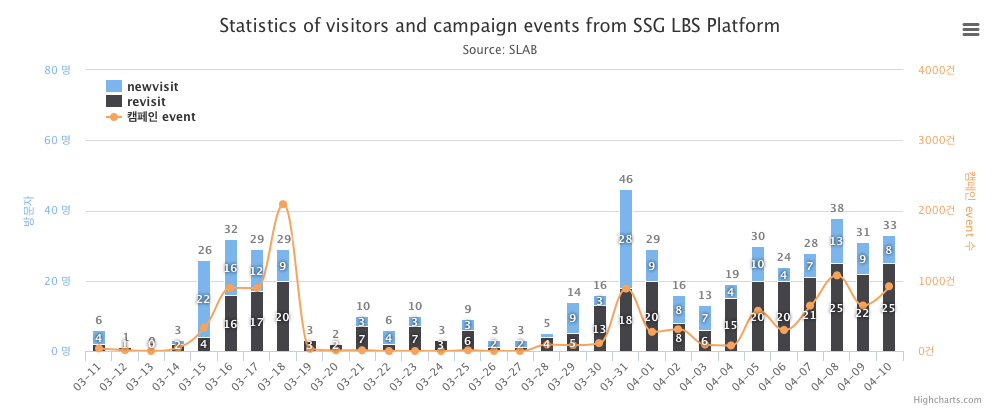
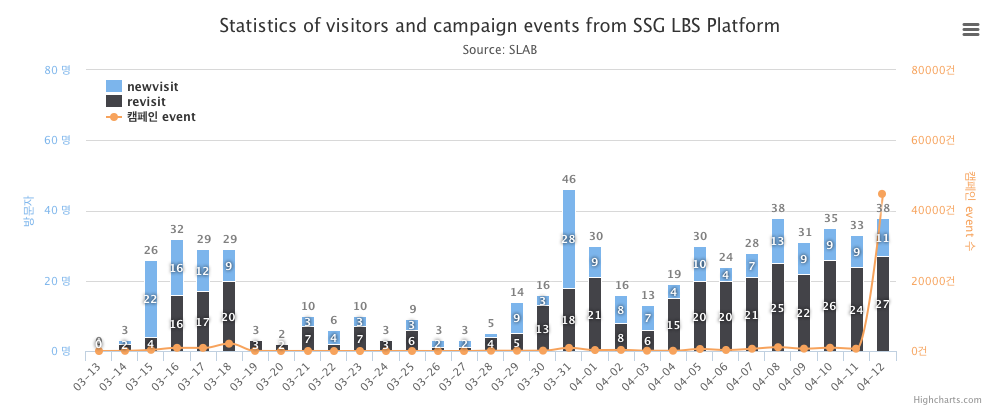
"SsgBot commits png and html"

diff --git a/lbsStat.html b/lbsStat.html
@@ -24,7 +24,7 @@ $(function () {
             crosshair: true
         }],
         yAxis: [{ // Primary yAxis
-        		max:2500,
+        		//max:2500,
             labels: {
                 format: '{value}건',
                 style: {
@@ -40,7 +40,7 @@ $(function () {
             opposite: true
 
         }, { // Secondary yAxis
-        		max:50,
+        		//max:50,
             gridLineWidth: 0,
             title: {
                 text: '방문자',
@@ -101,7 +101,7 @@ $(function () {
             name: 'revisit',
             type: 'column',
             yAxis: 1,
-            data: [0, 2, 4, 16, 17, 20, 3, 2, 7, 2, 7, 3, 6, 1, 1, 4, 5, 13, 18, 21, 8, 6, 15, 20, 20, 21, 25, 22, 26, 24, 26], /*[0, 0, 2, 1, 2, 1, 0, 2, 4, 16, 17, 20, 3, 2, 7, 2, 7, 3, 6, 1, 1, 4, 5, 13, 18, 20, 8, 6, 15, 20, 20, 21]*/
+            data: [0, 2, 4, 16, 17, 20, 3, 2, 7, 2, 7, 3, 6, 1, 1, 4, 5, 13, 18, 21, 8, 6, 15, 20, 20, 21, 25, 22, 26, 24, 27], /*[0, 0, 2, 1, 2, 1, 0, 2, 4, 16, 17, 20, 3, 2, 7, 2, 7, 3, 6, 1, 1, 4, 5, 13, 18, 20, 8, 6, 15, 20, 20, 21]*/
             marker: {
                 enabled: false
             },
@@ -114,7 +114,7 @@ $(function () {
 
             name: '캠페인 event',
             type: 'spline',
-            data: [0, 50, 334, 899, 896, 2090, 32, 9, 11, 0, 0, 0, 11, 0, 0, 91, 84, 112, 889, 274, 309, 92, 79, 573, 299, 645, 1077, 673, 932, 653, 44720],/*[0, 20, 18, 9, 36, 12, 0, 50, 334, 899, 896, 2090, 32, 9, 11, 0, 0, 0, 11, 0, 0, 91, 84, 112, 889, 273, 309, 90, 79, 573, 299, 645]*/
+            data: [0, 50, 334, 899, 896, 2090, 32, 9, 11, 0, 0, 0, 11, 0, 0, 91, 84, 112, 889, 274, 309, 92, 79, 573, 299, 645, 1077, 673, 932, 656, 44737],/*[0, 20, 18, 9, 36, 12, 0, 50, 334, 899, 896, 2090, 32, 9, 11, 0, 0, 0, 11, 0, 0, 91, 84, 112, 889, 273, 309, 90, 79, 573, 299, 645]*/
             tooltip: {
                 valueSuffix: ' 건'
             }

diff --git a/lbsStat.py b/lbsStat.py
@@ -26,7 +26,7 @@ headers={'request_type':'1', 'access_token':'79E5F0BA4352C7D23BAF36618DF605E881E
           'x-ssg-deviceid':'88888888-8888-8888-8888-888888888888', 'x-ssg-userid':'C88888888/restful_check'}
 # global audiences=set([])
 
-BASE_DIR='errbot-plugins/LbsStat/'
+BASE_DIR='/gdev/sm/ssgbot/errbot-plugins/LbsStat/'
 ROSTER= BASE_DIR+'roster.pkl'
 IMG_PATH=BASE_DIR+'lbsstat.png'
 CHART_URL='http://gnooshin.github.io/lbsStat/lbsStat.html'
@@ -129,18 +129,11 @@ class LbsStat(BotPlugin):
                     fout.write(line)
                 fout.close()
         sh.cd(BASE_DIR)
-        print "#######"+str(sh.pwd())
-        # repo_origin = 'https://github.com/gnooshin/lbsStat.git'
-        # sh.git.add('.')
-        # sh.git.commit('-m', '"SsgBot commits html"')
-        # sh.git.push('origin', 'origin/gh-pages')
-
-        #TODO: should push lbsStat.html to github
         gen_webshot(CHART_URL_LOCAL,'lbsstat.png')
         print "#######"+str(sh.pwd())
-        sh.git.add('lbsStat.html lbsstat.png')
+        sh.git.add('.')
         sh.git.commit('-m', '"SsgBot commits png and html"')
-        sh.git.push('origin', 'origin/gh-pages')
+        sh.git.push('origin')
 
 
 #보낼 문장 생성
